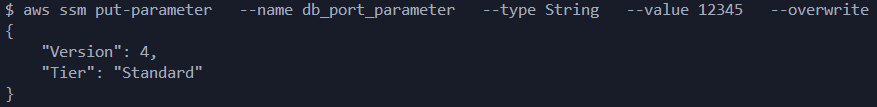
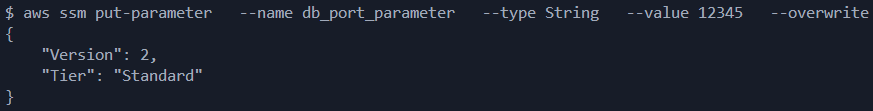
1b_lab completed

diff --git a/1-lab/1b-terraform/docs/validation.md b/1-lab/1b-terraform/docs/validation.md
@@ -241,6 +241,8 @@ aws logs filter-log-events \
   --log-group-name /aws/ec2/lab-rds-app \
   --filter-pattern "ERROR"
 
+![sysbm](screenshots/sc_7.5.png)
+
 Test that application can connect, before failure  
 ![sysbm](screenshots/sc_35.png)  
 
@@ -255,3 +257,20 @@ Verify application log locally
 
 Verify CloudWatch received log  
 ![sysbm](screenshots/sc_39.png)  
+
+7.6 Verify CloudWatch Alarm
+
+aws cloudwatch describe-alarms \
+  --alarm-name-prefix lab-db-connection
+
+![sysbm](screenshots/sc_40.png)  
+
+7.7 Incident Recovery Verification After restoring correct credentials or connectivity:
+
+Incident Recovery Verification:
+
+![sysbm](screenshots/sc_41.png)  
+
+curl <http://3.84.13.196/list>  
+
+![sysbm](screenshots/sc_7.7.png)  